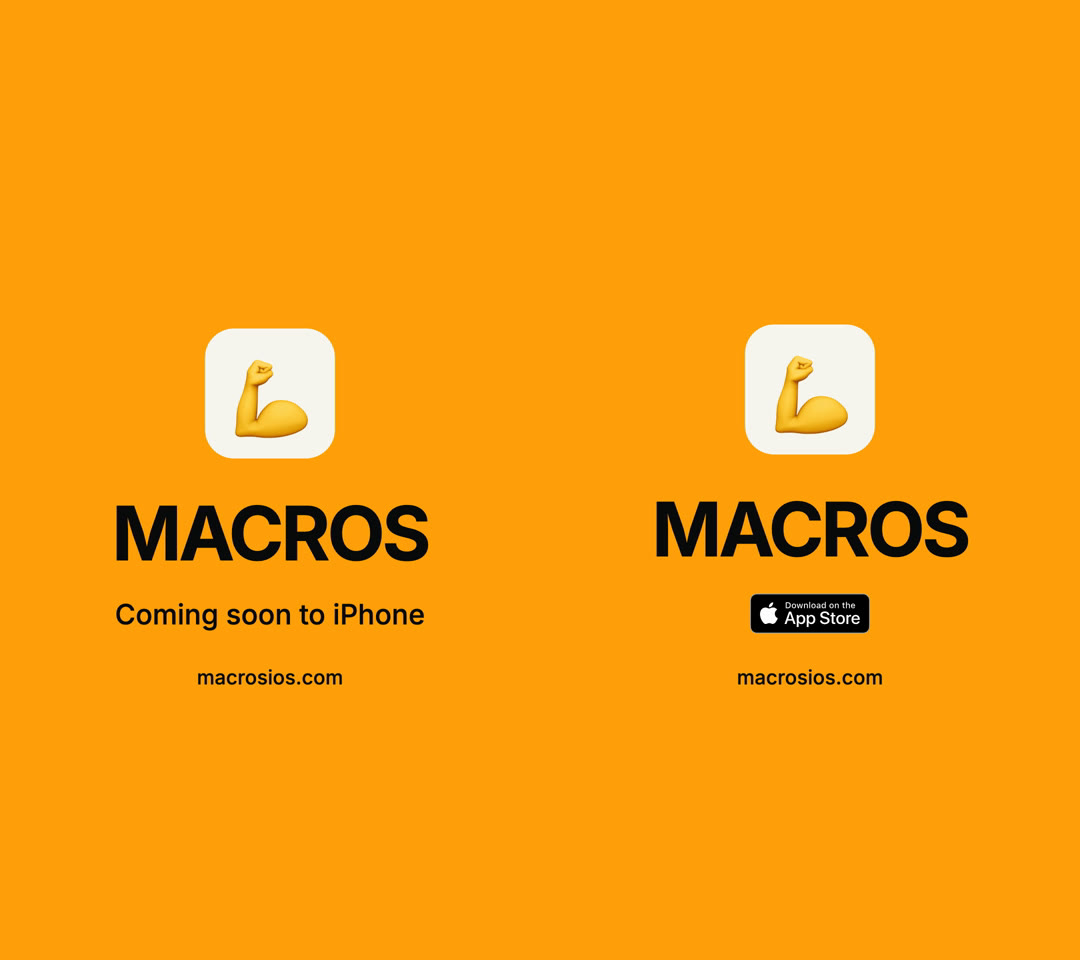
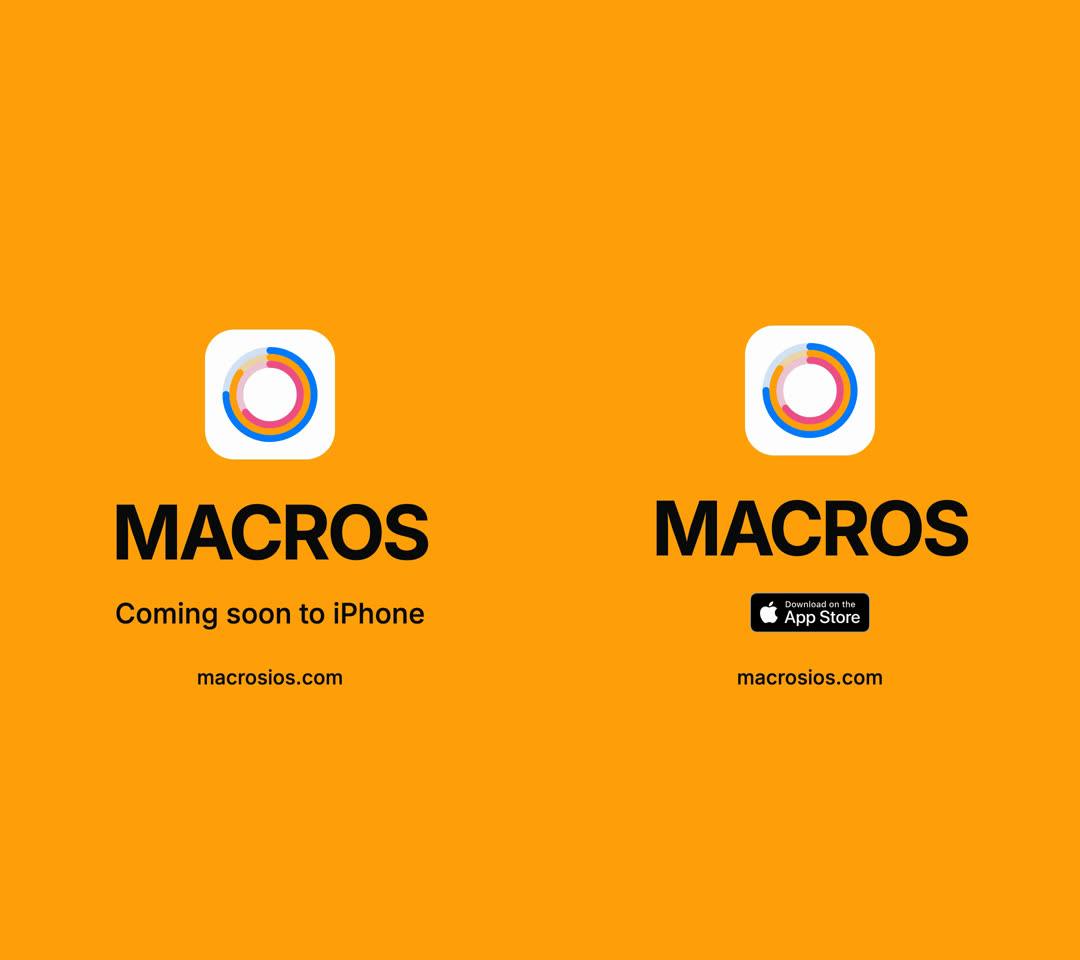
feat: show the rings mark on the trailer end card
Replace the app icon on the end card with the MACROS rings mark: three
concentric SVG rings (protein, carbs, fat) at the Today ring's proportions
on a white rounded tile. The rings sweep from 0 to 75%, 85% and 65% over
0.6 s as the tile appears. Drop the app-icon.png copy step from the README.

diff --git a/tools/media/trailer/src/rings-mark.tsx b/tools/media/trailer/src/rings-mark.tsx
@@ -1,0 +1,41 @@
+import React from "react";
+import { COLORS } from "./shots";
+import { useReveal } from "./text";
+
+/**
+ * The MACROS rings mark, drawn at the Today ring's proportions from `MacroRingSetView`: the line width is 8% of the outer
+ * diameter, each inner ring steps in by one line width less 0.4% (the app's overlap), and the track is the palette's track
+ * colour at 45% opacity. Protein is outermost, then carbs, then fat. The app's Today ring is 269 pt; this is scaled to 176 px.
+ */
+const TILE = 260;
+const OUTER_DIAMETER = 176;
+const LINE_WIDTH = OUTER_DIAMETER * 0.08;
+const OVERLAP = OUTER_DIAMETER * 0.004;
+const TRACK_OPACITY = 0.45;
+const SWEEP_SECONDS = 0.6;
+
+const radius = (index: number) => (OUTER_DIAMETER - index * (LINE_WIDTH * 2 - OVERLAP)) / 2;
+
+const RINGS = [
+  { progress: 0.75, color: COLORS.protein, track: "rgb(158,191,237)" },
+  { progress: 0.85, color: COLORS.carbs, track: "rgb(214,158,61)" },
+  { progress: 0.65, color: COLORS.fat, track: "rgb(214,122,158)" },
+] as const;
+
+/** A white rounded tile (iOS icon proportions) holding the rings; they sweep from 0 to their progress as the tile appears. */
+export const RingsMark: React.FC = () => {
+  const sweep = useReveal(0, SWEEP_SECONDS);
+  const centre = TILE / 2;
+  return <div style={{ width: TILE, height: TILE, borderRadius: TILE * 0.225, background: "#FFFFFF", marginBottom: 55 }}>
+    <svg width={TILE} height={TILE} viewBox={`0 0 ${TILE} ${TILE}`} style={{ display: "block" }}>
+      {RINGS.map((ring, index) => {
+        const circle = { cx: centre, cy: centre, r: radius(index), fill: "none", strokeWidth: LINE_WIDTH };
+        return <g key={ring.color} transform={`rotate(-90 ${centre} ${centre})`}>
+          <circle {...circle} stroke={ring.track} strokeOpacity={TRACK_OPACITY} />
+          {sweep > 0 && <circle {...circle} pathLength={100} stroke={ring.color} strokeLinecap="round"
+            strokeDasharray={`${ring.progress * sweep * 100} 100`} />}
+        </g>;
+      })}
+    </svg>
+  </div>;
+};

diff --git a/tools/media/trailer/src/end-card.tsx b/tools/media/trailer/src/end-card.tsx
@@ -1,13 +1,14 @@
 import React from "react";
 import { AbsoluteFill, Img, staticFile } from "remotion";
 import { fontFamily } from "./font";
+import { RingsMark } from "./rings-mark";
 import type { Variant } from "./shots";
 import { STYLE } from "./styles";
 import { Reveal } from "./text";
 
 export const EndCard: React.FC<{ variant: Variant }> = ({ variant }) =>
   <AbsoluteFill style={{ alignItems: "center", justifyContent: "center", color: STYLE.text, fontFamily }}>
-    <Reveal at={0}><Img src={staticFile("app-icon.png")} style={{ width: 260, height: 260, borderRadius: 58, marginBottom: 55 }} /></Reveal>
+    <Reveal at={0}><RingsMark /></Reveal>
     <Reveal at={0.5} style={{ fontSize: STYLE.headSize, fontWeight: 700, letterSpacing: "-0.04em" }}>MACROS</Reveal>
     <Reveal at={1} style={{ marginTop: 38 }}>
       {variant === "coming-soon"

diff --git a/tools/media/trailer/README.md b/tools/media/trailer/README.md
@@ -38,7 +38,6 @@ None of these are tracked. Raw takes are native 1320 x 2868 simulator recordings
 The other files are not tracked either. Copy them once:
 
 ```sh
-cp cal-macro-tracker/Assets.xcassets/AppIcon.appiconset/icon-ios.png tools/media/trailer/public/app-icon.png
 ffmpeg -f lavfi -i anullsrc=channel_layout=stereo:sample_rate=48000 -t 30 -c:a pcm_s16le tools/media/trailer/public/silence.wav
 curl -L -o tools/media/trailer/public/app-store-badge.svg https://developer.apple.com/assets/elements/badges/download-on-the-app-store.svg
 ```
@@ -66,7 +65,7 @@ The grid is 120 BPM, so one beat is 0.5 s. Cuts land on it.
 | 24.5 | "Scan." |
 | 25.0 | "Track." |
 | 25.5 | "Done." |
-| 26.0 | End card, app icon |
+| 26.0 | End card: rings mark on a white tile (rings sweep in over 0.6 s) |
 | 26.5 | "MACROS" |
 | 27.0 | "Coming soon to iPhone" or the App Store badge |
 | 28.0 | `macrosios.com` |

diff --git a/docs/plans/active/launch-trailer.md b/docs/plans/active/launch-trailer.md
@@ -52,7 +52,7 @@ One bold style, tidied toward Apple's announcement look: centred, one idea at a 
 | 15-19 | Track | "Track it." Tap Insights on Today and rest on the top of Insights. Counter 125.7 g protein, 30-day avg. |
 | 19-24 | Glance | "Glance at it." The full Home Screen page with only the MACROS widgets and icon, showing 1415. |
 | 24-26 | Type | "Search." "Scan." "Track." "Done." on successive beats. |
-| 26-29 | End card | App icon, "MACROS", then "Coming soon to iPhone" or the App Store badge; `macrosios.com` small. |
+| 26-29 | End card | Rings mark on a white tile (the three rings sweep in over 0.6 s), "MACROS", then "Coming soon to iPhone" or the App Store badge; `macrosios.com` small. |
 
 Every claim must match current app behaviour. Recordings may be trimmed (prefer cutting idle frames) and played at most 1.5×; no faked UI. The current edit plays every clip at 1.0×.
 

diff --git a/docs/evidence/trailer/README.md b/docs/evidence/trailer/README.md
@@ -54,7 +54,7 @@ All three MP4s: h264, yuv420p, 1080 x 1920, 30 fps, 870 frames (counted), 29.000
 - `review-1fps.jpg`: 10 x 3 with safe-zone outlines.
 - `rings-steps.jpg`: Rings shot at 11.5, 12.6, 13.7 and 14.8 s: 740, 1340, 1620, 2080 kcal.
 - `insights-17.5s.jpg`: Insights shot, top of the screen.
-- `end-cards-28.5s.jpg`: coming-soon and app-store at 28.5 s.
+- `end-cards-28.5s.jpg`: coming-soon and app-store at 28.5 s, with the rings mark on a white tile (replaces the app icon).
 
 ## Not verified
 
